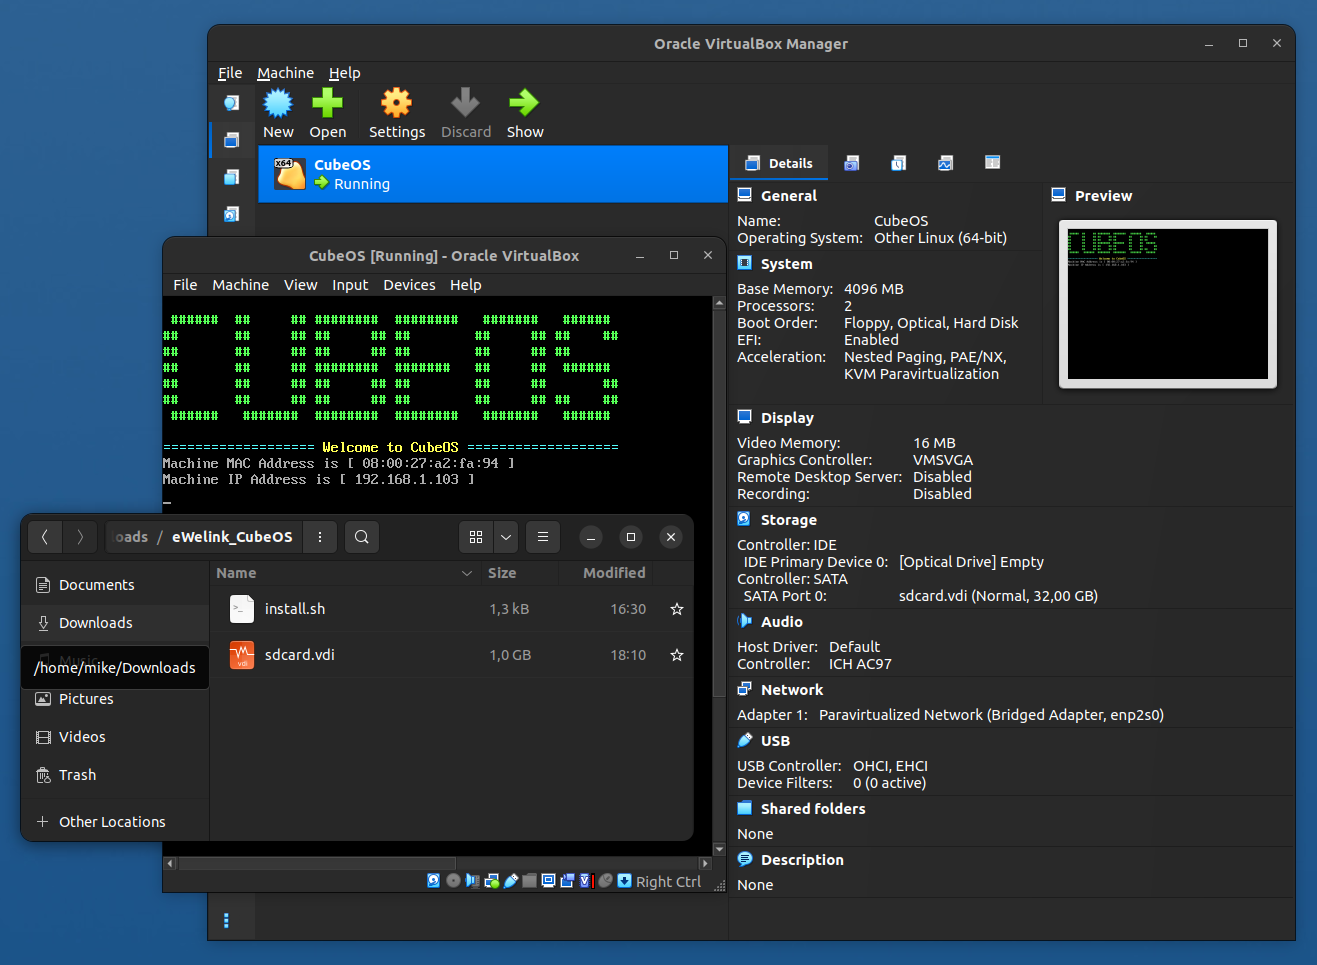
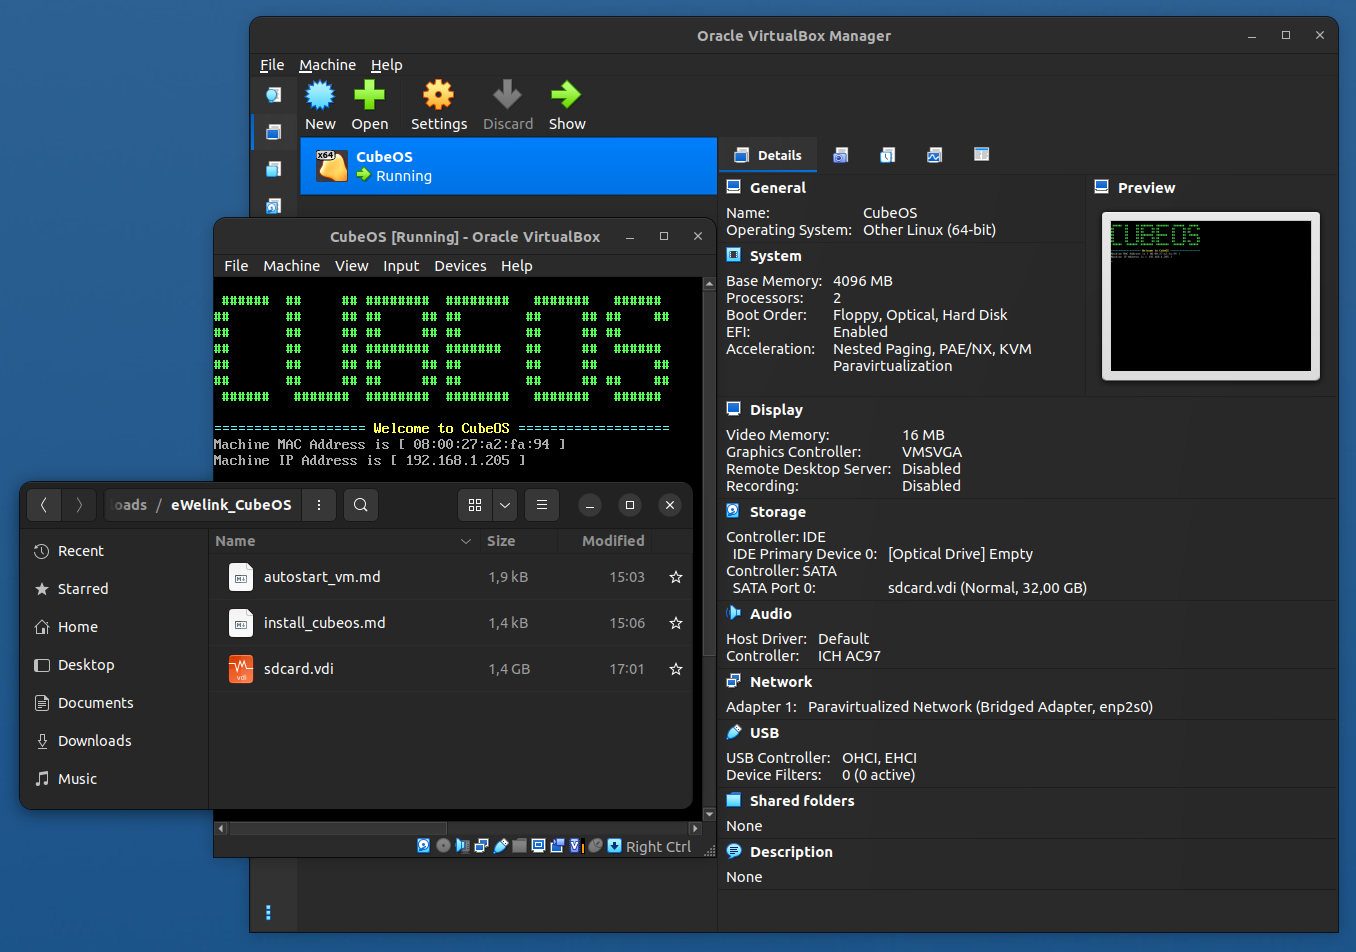
Yandex Home connected

Changed region(s): [[0.0, 0.0, 0.9962, 1.0], [0.3736, 0.5788, 0.4047, 0.7006]]

diff --git a/install/office_network.md b/install/office_network.md
@@ -20,7 +20,7 @@ Unfortunately, it is not possible to create a local network without internet acc
 - OpenThread Border Router (SmLight SLZB-06)  
 - OpenThread Border Router (nRF52840 USB Dongle)  
 - Yandex Hub + Yandex Smart Home for connecting and displaying Matter devices  
-- Dedicated Ubuntu computer for creating ESP-Matter firmware for Thread end devices  
+- Dedicated Ubuntu computer for creating ESP-Matter firmware for Thread end devices, and to install a virtual machine to use eWeLink CubeOS  
 - Office computer with a Wi-Fi connection to the local network  
 
 
@@ -34,10 +34,12 @@ Unfortunately, it is not possible to create a local network without internet acc
 | 192.168.1.151 | Wi-Fi            | HA Office Wi-Fi            | HA                    |
 | 192.168.1.152 | Wi-Fi            | Redmi Note 14 Wi-Fi        | HA                    |
 | 192.168.1.153 | Wi-Fi            | Xiaomi 12S Ultra           | Xiaomi                |
+| 192.168.1.154 | Wi-Fi            | Sonoff Micro Wi-Fi         | Sonoff                |
 | 192.168.1.201 | Ethernet         | SmLight SLZB-06 Ethernet   | SmLight               |
 | 192.168.1.202 | Ethernet         | OTBR #4 Ethernet           | Espressif             |
 | 192.168.1.203 | Ethernet         | OTBR #5 Ethernet           | Espressif             |
 | 192.168.1.204 | Ethernet         | Yandex Hub Ethernet        | Yandex                |
+| 192.168.1.205 | Ethernet         | eWeLink CubeOS             | eWeLink               |
 | 192.168.1.234 | Wi-Fi            | HP Office PC               | HP                    |
 | 192.168.1.250 | Wi-Fi            | OTBR #3 Wi-Fi              | Espressif             |
 | 192.168.1.251 | Wi-Fi            | SmLight SLZB-06 Wi-Fi      | SmLight               |
@@ -70,6 +72,9 @@ Unfortunately, it is not possible to create a local network without internet acc
 - **Yandex Hub**  
   Connected via ***Ethernet*** to a TP-Link LS1008 switch.  
   Used to connect Matter devices.
+- **eWeLink CubeOS**  
+  Connected via ***virtual machine*** simulating an Ethernet connection.  
+  Used to connect Wi-Fi and Ethernet devices compatible with eWeLink.
 - **ESP OTBR #3**  
   Connected via ***Wi-Fi*** to a TP-Link LS1008 switch.  
   Used to create an OpenThread Boarder Router.
@@ -79,6 +84,9 @@ Unfortunately, it is not possible to create a local network without internet acc
 - **Xiaomi 12S Ultra**  
   Connected via ***Wi-Fi*** to a TP-Link LS1008 switch.  
   Used to connect Matter end devices to the Thread network via the Home Assistant mobile app.
+- **Sonoff Micro**  
+  Connected via ***Wi-Fi*** to a TP-Link LS1008 switch.  
+  Used as a physical switch to connect to eWeLink CubeOS.
 
 
 ### Thread Network
@@ -168,7 +176,7 @@ However, not every Matter hub can commission custom endpoints. For example, both
 The "[Home-Assistant-Matter-Hub](https://github.com/t0bst4r/home-assistant-addons)" add-on allows us to bypass this limitation.  
 ![](office_network/on_matter_hub_filter.png)  
   
-This add-on generates a QR code and Manual Pairing Code that can be successfully scanned by both Yandex Hub and Google Nest Hub, and adds new devices to both ecosystems.  
+This add-on generates a QR code and a manual pairing code that can be successfully used by both Yandex Hub and Google Nest Hub, and adds new devices to both ecosystems. However, the add-on can only be commissioned for one ecosystem; all other devices connect through the first connected one.  
 ![](office_network/on_matter_hub_list.png)  
   
 If there is a problem with removing an unnecessary bridge, we set a filter that cannot be matched, so no entities are created, and we can remove the bridge.  
